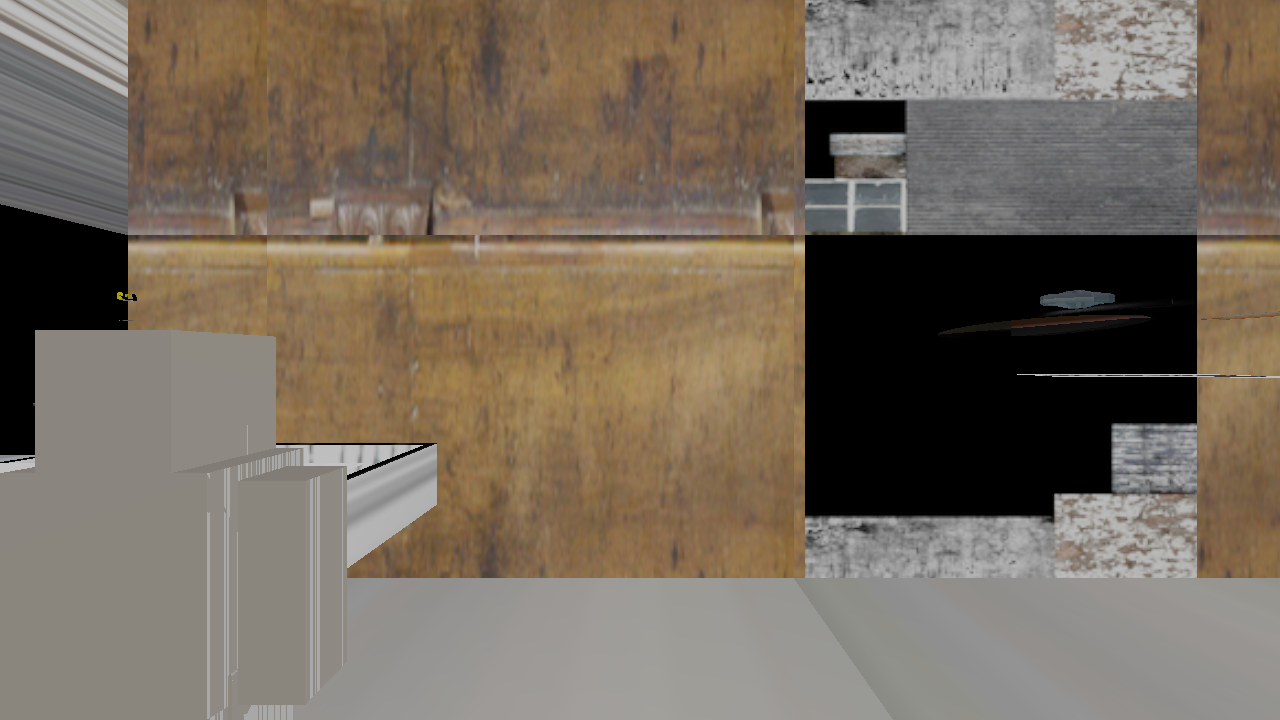
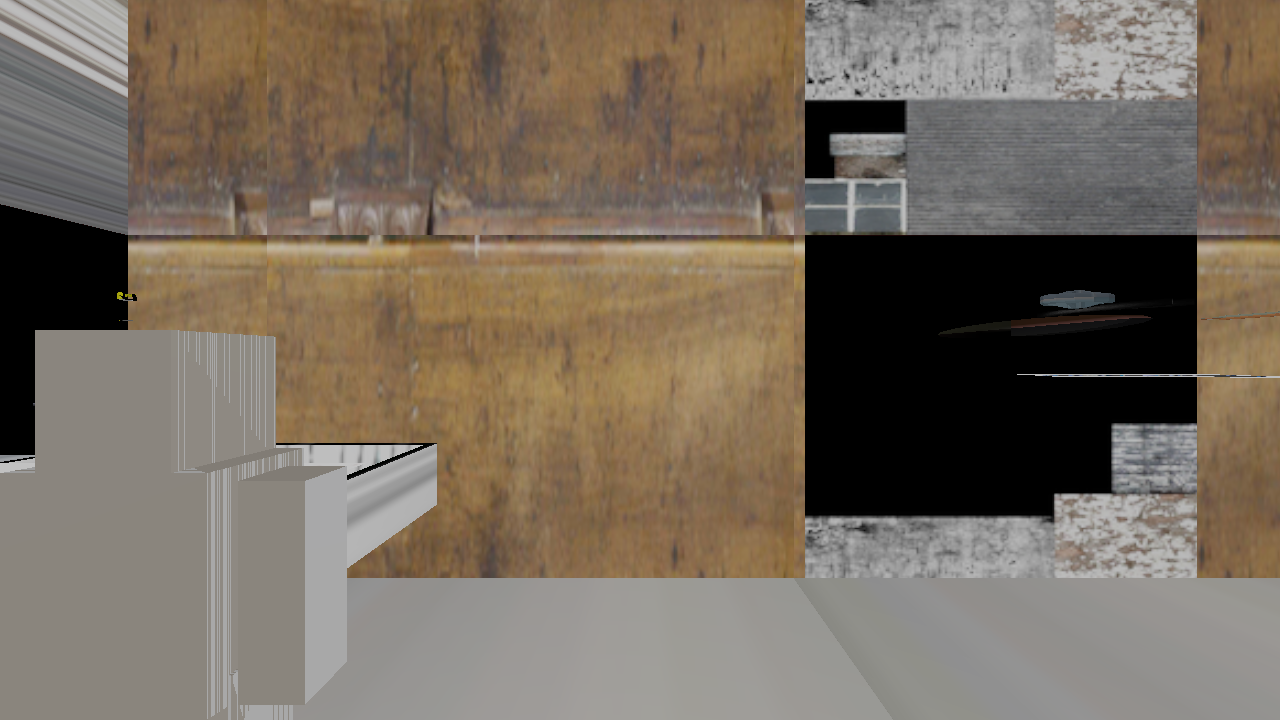
Model the two extra followPlayer suppression flags (+0x214/+0x215)
followPlayer tests the six GrannyDecisions flags and then two more before it
moves; both are now represented in AiBusy and covered by a test.

Changed region(s): [[0.1562, 0.6111, 0.2812, 1.0], [0.125, 0.4583, 0.2188, 0.6111]]

diff --git a/src/game.rs b/src/game.rs
@@ -67,6 +67,10 @@ pub struct AiBusy {
     pub hit_by_pepper: bool,
     pub frozen: bool,
     pub dropping_trap: bool,
+    /// `EnemyAIGranny` +0x214 / +0x215: a second pair of suppression flags read
+    /// by `followPlayer` after the six `GrannyDecisions` flags.
+    pub suppress_a: bool,
+    pub suppress_b: bool,
 }
 
 impl AiBusy {
@@ -77,6 +81,11 @@ impl AiBusy {
             || self.hit_by_pepper
             || self.frozen
             || self.dropping_trap
+    }
+
+    /// `followPlayer` additionally bails on +0x214/+0x215.
+    pub fn blocks_follow(&self) -> bool {
+        self.any() || self.suppress_a || self.suppress_b
     }
 }
 
@@ -437,6 +446,11 @@ impl World {
     }
 
     fn step_granny(&mut self, dt: f32) {
+        // `EnemyAIGranny.followPlayer` returns before moving when either the six
+        // decision flags or the two follow-specific flags are set.
+        if self.granny.busy.blocks_follow() {
+            return;
+        }
         let speed = match self.granny.state {
             AiState::Follow => GRANNY_FOLLOW.min(self.granny.speed + 0.8),
             AiState::Attack => 0.0,

diff --git a/tests/logic.rs b/tests/logic.rs
@@ -176,3 +176,27 @@ fn day_timer_rolls_over() {
     w.tick(0.02, glam::Vec2::ZERO, false);
     assert_eq!(w.day, 2);
 }
+
+/// `EnemyAIGranny.followPlayer` (0x145bb60) checks the six `GrannyDecisions`
+/// flags plus two more at +0x214/+0x215 before moving.
+#[test]
+fn follow_player_respects_extra_suppression_flags() {
+    let mut w = world();
+    w.granny.state = AiState::Follow;
+    w.granny.pos = Vec3::ZERO;
+    w.player.pos = Vec3::new(5.0, 0.0, 0.0);
+
+    w.granny.busy.suppress_a = true;
+    let before = w.granny.pos;
+    w.tick(0.1, glam::Vec2::ZERO, false);
+    assert_eq!(w.granny.pos, before, "suppress_a must freeze pursuit");
+
+    w.granny.busy.suppress_a = false;
+    w.granny.busy.suppress_b = true;
+    w.tick(0.1, glam::Vec2::ZERO, false);
+    assert_eq!(w.granny.pos, before, "suppress_b must freeze pursuit");
+
+    w.granny.busy.suppress_b = false;
+    w.tick(0.1, glam::Vec2::ZERO, false);
+    assert_ne!(w.granny.pos, before, "unblocked pursuit must move");
+}
